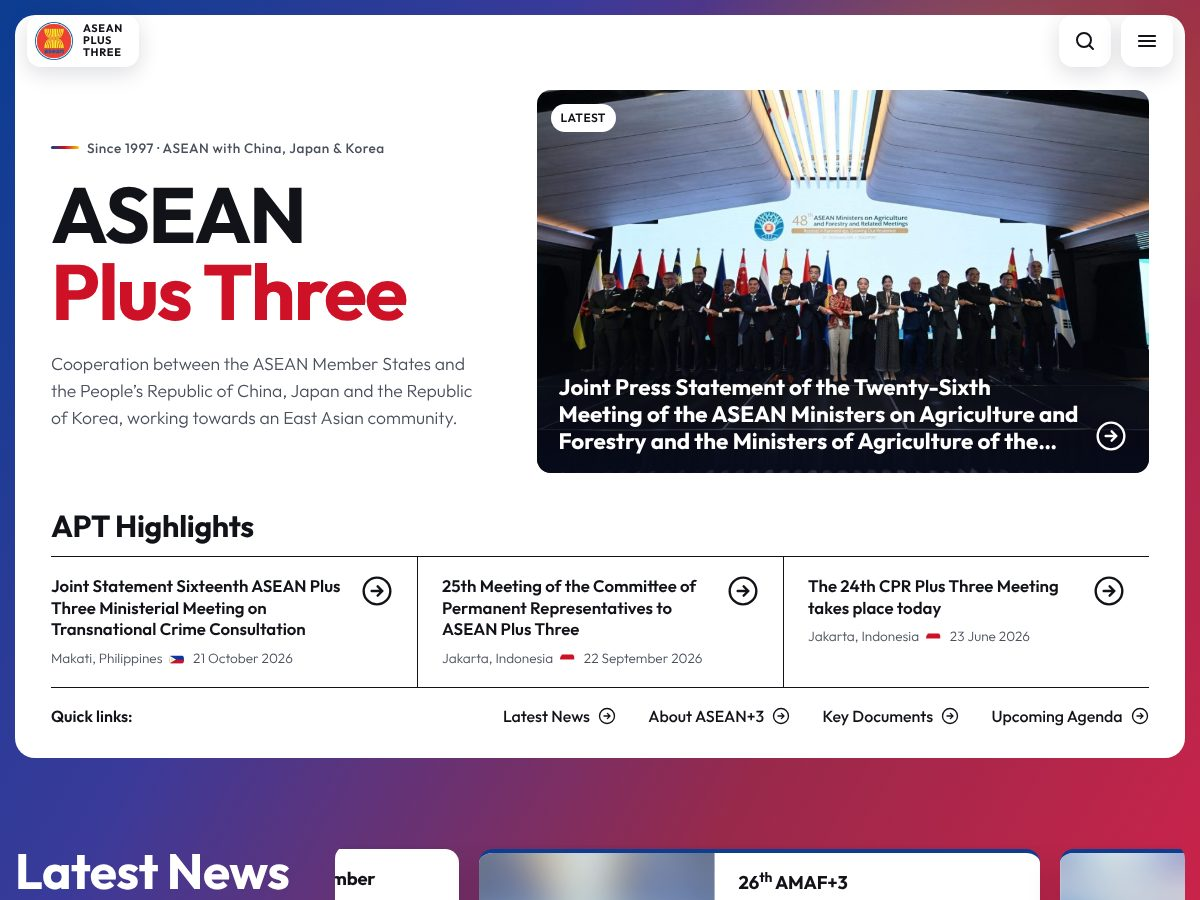
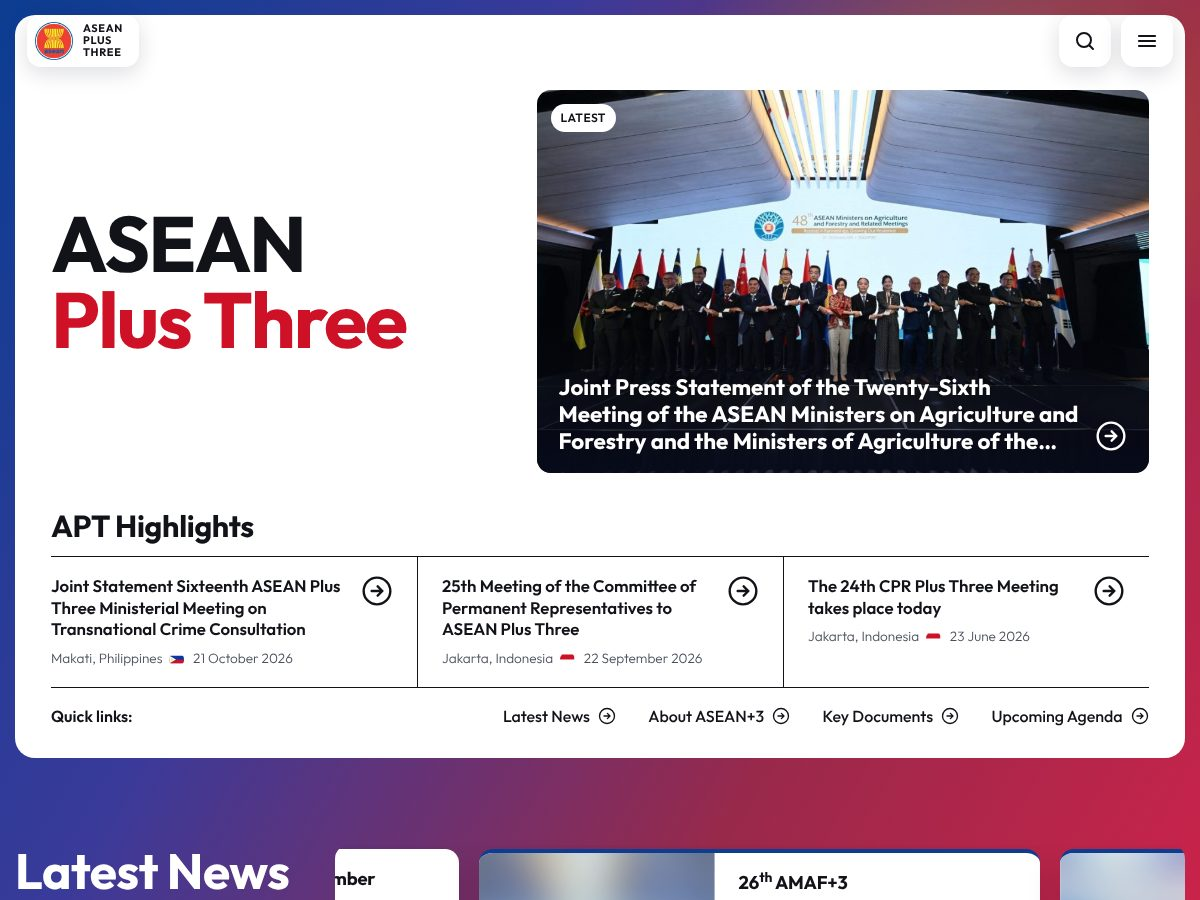
Hero: title only; open Mechanisms by default
- Remove the "Since 1997 ..." eyebrow and the description paragraph from
  the home hero, and their now-unused styles.
- The Resources "Mechanisms" section starts open, like Key Documents.
- Refresh screenshot.jpg to the new hero.

Claude-Session: https://claude.ai/code/session_01XoHtnNbUGgqr2K7nBi3oKd

Changed region(s): [[0.0308, 0.1556, 0.4008, 0.4667]]

diff --git a/assets/css/apt-design.css b/assets/css/apt-design.css
@@ -479,30 +479,15 @@ html:has(.apt-menu[open]) { overflow: hidden; }
 	align-items: center;
 	padding-bottom: clamp(20px, 3vw, 36px);
 }
-.apt-hero-eyebrow {
-	display: inline-flex;
-	align-items: center;
-	gap: 8px;
-	font-size: 0.85rem;
-	font-weight: 500;
-	letter-spacing: 0.04em;
-	color: var(--ink-2);
-	margin-bottom: 18px;
-}
-.apt-hero-eyebrow::before {
-	content: ''; width: 28px; height: 3px; border-radius: 3px;
-	background: linear-gradient(90deg, var(--apt-blue), var(--apt-red), var(--apt-yellow));
-}
 .apt-hero-title {
 	font-size: clamp(2.75rem, 1.6rem + 4.4vw, 5.5rem);
 	font-weight: 700;
 	line-height: 0.98;
 	letter-spacing: -0.025em;
-	margin: 0 0 20px;
+	margin: 0;
 	color: var(--ink);
 }
 .apt-hero-title span { display: block; color: var(--apt-red); }
-.apt-hero-lede { font-size: 1.1rem; line-height: 1.55; color: var(--ink-2); max-width: 40ch; margin: 0; }
 
 .apt-hero-feature {
 	position: relative;

diff --git a/template-parts/front-topnew4.php b/template-parts/front-topnew4.php
@@ -60,9 +60,7 @@
 <section class="apt-hero" aria-labelledby="apt-hero-title">
 	<div class="apt-hero-main">
 		<div class="apt-hero-intro">
-			<div class="apt-hero-eyebrow">Since 1997 &middot; ASEAN with China, Japan &amp; Korea</div>
 			<h1 class="apt-hero-title" id="apt-hero-title">ASEAN <span>Plus Three</span></h1>
-			<p class="apt-hero-lede">Cooperation between the ASEAN Member States and the People&rsquo;s Republic of China, Japan and the Republic of Korea, working towards an East Asian community.</p>
 		</div>
 
 		<?php if ( $ftn_feature ) : ?>

diff --git a/template-parts/front-resources_bento.php b/template-parts/front-resources_bento.php
@@ -47,7 +47,7 @@ function gcc2($catid){
 				</div>
 			</details>
 
-			<details class="resource-accordion-item">
+			<details class="resource-accordion-item" open>
 				<summary class="resource-accordion-summary">Mechanisms</summary>
 				<div class="resource-accordion-content">
 					<div class="mechanisms-wrapper">
